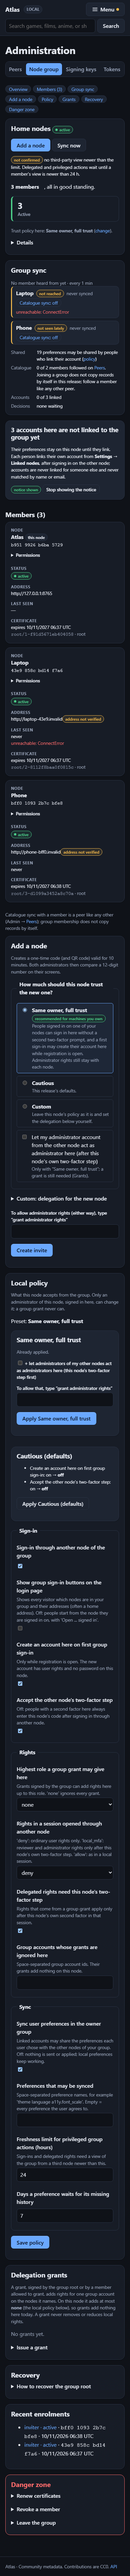
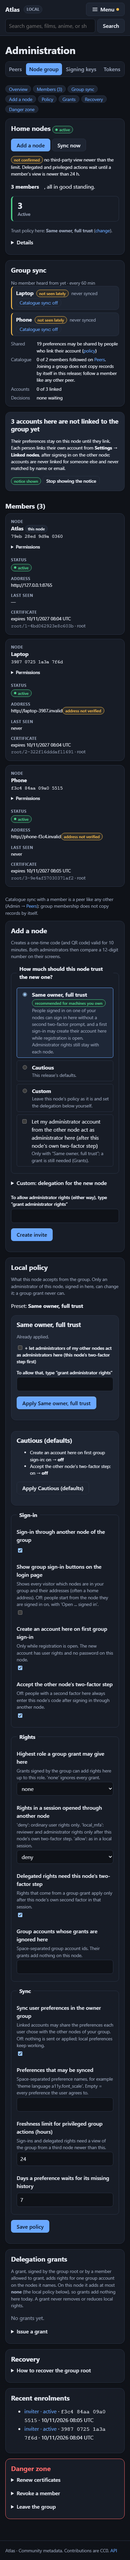
docs(evidence): real light/dark Group sync shots, done-step "not changed" shots; e2e seed robustness
- profile_seed.py link takes alice's synced theme; the evidence spec passes "auto", so the light and dark
  /me/linked-nodes shots really differ (a synced "dark" overrode the emulated scheme: the review found the
  light files byte-identical to the dark ones). New `profile-sync on|off` action for the done-step note shot.
- e2e/server.py: group sync interval 1 h. A group round against the synthetic (not running) joiner held the
  SQLite write lock while its outbound call timed out, so a page write or seed script in that window failed
  with "database is locked" (seen locally as a 500 on /admin/group/link-invite). The seed also retries on lock,
  and the spec waits for the link-invite POSTs before seeding.
- Recaptured group-sync-me, group-sync-admin; new group-done-kept (desktop+mobile, light+dark, synthetic data).

Refs #134

Changed region(s): [[0.0308, 0.0312, 0.9231, 0.9675], [0.6462, 0.0624, 0.7077, 0.0936], [0.1538, 0.9675, 0.1846, 0.9987]]

diff --git a/e2e/tests/ui-polish.evidence.spec.js b/e2e/tests/ui-polish.evidence.spec.js
@@ -143,6 +143,17 @@ test('group: invite with QR code and preset, compare, done', async ({ page, base
   await shoot(page, 'group-done', info);
   await offer.scrollIntoViewIfNeeded();
   await shoot(page, 'group-done-link-step', info);
+  // U3 review: a preset row the activation left as set here (profile sync off) is named on the done step
+  py('e2e/profile_seed.py', 'profile-sync', 'off');
+  try {
+    await page.waitForTimeout(5_500);  // the node picks up policy changes at most every 5 s
+    await page.reload();
+    await expect(page.locator('[data-preset-kept-key="group_profile_sync"]')).toBeVisible();
+    await page.locator('[data-preset-kept]').scrollIntoViewIfNeeded();
+    await shoot(page, 'group-done-kept', info);
+  } finally {
+    py('e2e/profile_seed.py', 'profile-sync', 'on');
+  }
 });
 
 function py(script, ...args) {
@@ -162,7 +173,8 @@ test('group sync: not-linked badge, strip, invite users to link', async ({ page 
   await shoot(page, 'prefs-not-linked', info);
   await page.goto('/admin/group#group-sync-h', { waitUntil: 'networkidle' });
   const invite = page.getByRole('button', { name: 'Invite users to link' });
-  if (await invite.count()) await invite.click();
+  // wait for the POST and its redirect, so the seed script below never writes the SQLite file at the same time
+  if (await invite.count()) await Promise.all([page.waitForURL(/\/admin\/group/), invite.click()]);
   await expect(page.locator('[data-group-link-invite="on"]')).toBeVisible();
   await page.goto('/', { waitUntil: 'networkidle' });
   await expect(page.locator('[data-link-notice]')).toBeVisible();
@@ -170,8 +182,12 @@ test('group sync: not-linked badge, strip, invite users to link', async ({ page 
   await page.goto('/admin/group#group-sync-h', { waitUntil: 'networkidle' });
   await page.locator('[data-group-sync="admin"]').scrollIntoViewIfNeeded();
   await shoot(page, 'group-sync-admin', info);
-  await page.getByRole('button', { name: 'Stop showing the notice' }).click();
-  py('e2e/profile_seed.py', 'link');  // alice linked (written into the e2e database by the seed script)
+  await Promise.all([page.waitForResponse((r) => r.url().includes('/admin/group/link-invite')),
+    page.getByRole('button', { name: 'Stop showing the notice' }).click()]);
+  await page.waitForLoadState('networkidle');
+  // alice linked (written into the e2e database by the seed script); theme 'auto' so the emulated colour scheme
+  // decides and the light/dark pair below really differ (a synced 'dark' would override it)
+  py('e2e/profile_seed.py', 'link', 'auto');
   await page.goto('/me/linked-nodes', { waitUntil: 'networkidle' });
   await expect(page.locator('[data-group-sync="me"]')).toBeVisible();
   await shoot(page, 'group-sync-me', info);

diff --git a/e2e/profile_seed.py b/e2e/profile_seed.py
@@ -4,19 +4,24 @@
 other member of the e2e node's group (enrolled by e2e/group_joiner.py), sets a few preferences and receives a
 concurrent display-name edit from that member, which opens a review row. It writes the e2e database directly
 (the synthetic joiner is not a running node); every value is synthetic.
-Usage (repository root): uv run python e2e/profile_seed.py reset|link
+Usage (repository root): uv run python e2e/profile_seed.py reset|link [theme]
+The optional theme (default dark) is alice's synced theme; pass `auto` so the emulated colour scheme decides, for a
+real light/dark pair of shots. `profile-sync on|off` sets this node's "Profile sync" policy row (the U3 done-step
+note for preset rows left as the administrator set them).
 """
 
 from __future__ import annotations
 
 import sys
+import time
 from dataclasses import dataclass
 from datetime import timedelta
 from pathlib import Path
 
 from sqlalchemy import delete, select
+from sqlalchemy.exc import OperationalError
 
-from atlas import groups, ids, profile
+from atlas import groups, ids, profile, runtime
 from atlas.db import make_engine, make_sessionmaker
 from atlas.models import (
     GroupAccountLink,
@@ -39,10 +44,16 @@ class Ident:
     node_id: str
 
 
-def main(action: str) -> int:
+def main(action: str, theme: str = "dark") -> int:
     settings = Settings(_env_file=None, database_url=f"sqlite:///{DB.as_posix()}", role="local")
     engine = make_engine(settings.database_url)
     with make_sessionmaker(engine)() as s:
+        if action == "profile-sync":
+            runtime.save(s, settings, None, {"group_profile_sync": theme == "on"})
+            s.commit()
+            engine.dispose()
+            print('{"ok": true}')
+            return 0
         alice = s.scalars(select(User).where(User.username == "alice")).one()
         own = s.get(NodeState, "node_id").value
         for model in (ProfileConflict, ProfileVersion, ProfileField, ProfileSyncConsent, GroupAccountLink):
@@ -61,7 +72,7 @@ def main(action: str) -> int:
                                        evidence={**info, "linked_at": groups.gc.stamp(now)}, entry_ref="-",
                                        updated_at=now))
             me = Ident(own)
-            for field, value in (("theme", "dark"), ("display_name", "Alice Example"), ("date_format", "iso"),
+            for field, value in (("theme", theme), ("display_name", "Alice Example"), ("date_format", "iso"),
                                  ("a11y.font_scale", 1.1)):
                 profile.set_local(s, settings, me, alice, field, value, emit=False, now=now - timedelta(minutes=5))
             later = profile.fmt_hlc(int(now.timestamp() * 1000), 0, other.node_id)
@@ -77,5 +88,18 @@ def main(action: str) -> int:
     return 0
 
 
+def run(argv: list[str]) -> int:
+    """main(), retried while the running e2e node holds the SQLite write lock (its background group sync writes the
+    same file, so a seed write can meet "database is locked"; every action is idempotent)."""
+    for attempt in range(20):
+        try:
+            return main(argv[0] if argv else "link", *argv[1:2])
+        except OperationalError as exc:
+            if "locked" not in str(exc) or attempt == 19:
+                raise
+            time.sleep(1)
+    return 1
+
+
 if __name__ == "__main__":
-    raise SystemExit(main(sys.argv[1] if len(sys.argv) > 1 else "link"))
+    raise SystemExit(run(sys.argv[1:]))

diff --git a/e2e/server.py b/e2e/server.py
@@ -44,6 +44,10 @@ def main() -> int:
         "ATLAS_SECRET_KEY": secrets.token_urlsafe(32),
         "ATLAS_STEAM_ENABLED": "false",
         "ATLAS_MEDIA_CACHE_ENABLED": "false",  # no outbound image fetches during tests
+        # The synthetic group members (e2e/group_joiner.py) are not running nodes. A group round against them holds the
+        # SQLite write lock while its outbound call times out, so a page write or a seed script in that window fails
+        # with "database is locked". The first round waits one interval, so an hour keeps rounds out of a run.
+        "ATLAS_GROUP_SYNC_INTERVAL": "3600",
     }
     if env["ATLAS_ROLE"] == "authority":  # an authority requires verified email by default; there is no mail here
         env.setdefault("ATLAS_EMAIL_VERIFICATION", "optional")
